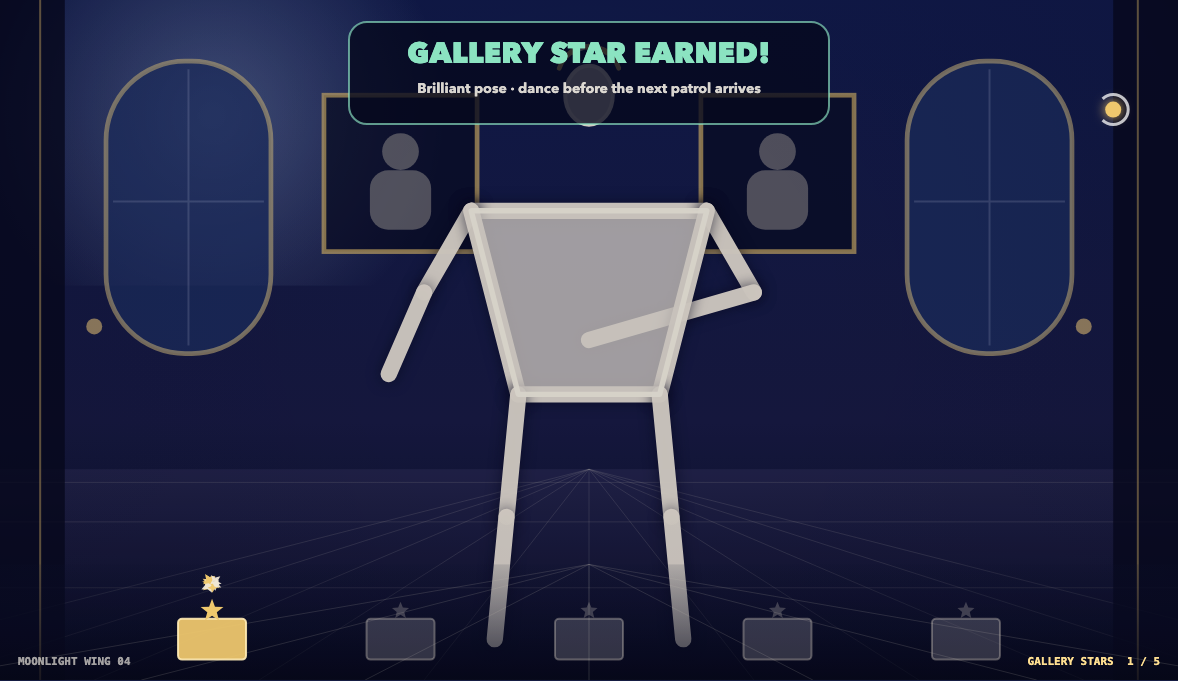
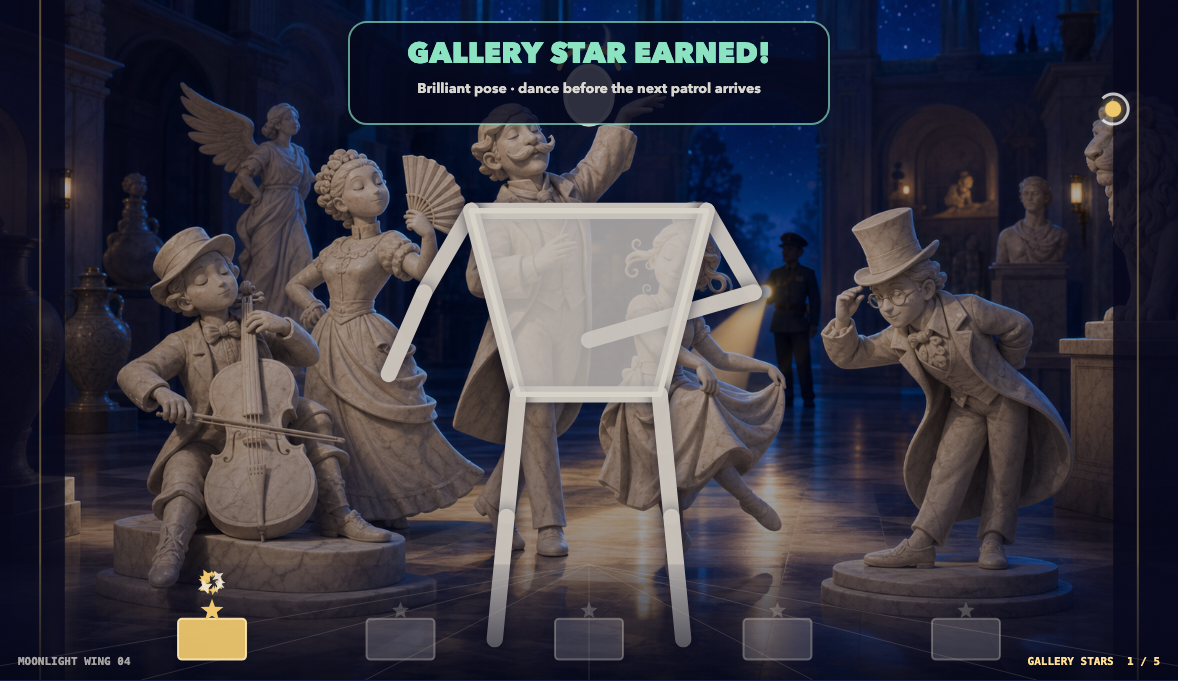
Draw museum hero behind simulator play

diff --git a/app/museum-renderer.ts b/app/museum-renderer.ts
@@ -33,6 +33,7 @@ class MuseumRenderer implements RuntimeRenderer {
   readonly element: HTMLDivElement;
   private readonly canvas: HTMLCanvasElement;
   private readonly context: CanvasRenderingContext2D;
+  private readonly heroImage: HTMLImageElement;
   private readonly sparkles: Sparkle[] = [];
   private previousPhase: ChallengeGuide["phase"] | null = null;
   private previousUnits = 0;
@@ -73,6 +74,9 @@ class MuseumRenderer implements RuntimeRenderer {
     const context = this.canvas.getContext("2d", { alpha: false });
     if (context === null) throw new Error("Canvas 2D is unavailable.");
     this.context = context;
+    this.heroImage = document.createElement("img");
+    this.heroImage.decoding = "async";
+    this.heroImage.src = "/packs/museum-statues/assets/images/night-museum-hero.png";
     this.element.append(this.canvas);
     options.container.append(this.element);
   }
@@ -82,7 +86,7 @@ class MuseumRenderer implements RuntimeRenderer {
     const size = resize(this.element, this.canvas, frame.tier);
     const { context } = this;
     context.setTransform(size.dpr, 0, 0, size.dpr, 0, 0);
-    drawStageBase(context, size, frame);
+    drawStageBase(context, size, frame, this.heroImage);
 
     const guide = frame.challenge?.kind === "freeze" ? frame.challenge : null;
     this.captureReactions(guide, frame.timestampMs, size);
@@ -183,13 +187,55 @@ function resize(element: HTMLElement, canvas: HTMLCanvasElement, tier: RuntimeRe
   return { width, height, dpr };
 }
 
-function drawStageBase(context: CanvasRenderingContext2D, size: Size, frame: RuntimeRenderFrame): void {
+function drawStageBase(
+  context: CanvasRenderingContext2D,
+  size: Size,
+  frame: RuntimeRenderFrame,
+  heroImage: HTMLImageElement,
+): void {
   if (frame.video !== null && frame.video.readyState >= 2) {
     drawVideoCover(context, frame.video, size, frame.mirror);
     drawCameraGrade(context, size);
+  } else if (heroImage.complete && heroImage.naturalWidth > 0) {
+    drawImageCover(context, heroImage, size);
+    drawSimulatorGrade(context, size);
   } else {
     drawPaintedGallery(context, size, frame.timestampMs, frame.reducedStimulation);
   }
+}
+
+function drawImageCover(
+  context: CanvasRenderingContext2D,
+  image: HTMLImageElement,
+  size: Size,
+): void {
+  const sourceWidth = Math.max(1, image.naturalWidth);
+  const sourceHeight = Math.max(1, image.naturalHeight);
+  const sourceRatio = sourceWidth / sourceHeight;
+  const targetRatio = size.width / size.height;
+  let sx = 0;
+  let sy = 0;
+  let sw = sourceWidth;
+  let sh = sourceHeight;
+  if (sourceRatio > targetRatio) {
+    sw = sourceHeight * targetRatio;
+    sx = (sourceWidth - sw) / 2;
+  } else {
+    sh = sourceWidth / targetRatio;
+    sy = (sourceHeight - sh) / 2;
+  }
+  context.drawImage(image, sx, sy, sw, sh, 0, 0, size.width, size.height);
+}
+
+function drawSimulatorGrade(context: CanvasRenderingContext2D, size: Size): void {
+  context.fillStyle = "rgba(9,12,42,.12)";
+  context.fillRect(0, 0, size.width, size.height);
+  const grade = context.createLinearGradient(0, 0, 0, size.height);
+  grade.addColorStop(0, "rgba(4,7,28,.06)");
+  grade.addColorStop(0.62, "rgba(4,7,28,.12)");
+  grade.addColorStop(1, "rgba(4,7,28,.38)");
+  context.fillStyle = grade;
+  context.fillRect(0, 0, size.width, size.height);
 }
 
 function drawVideoCover(
